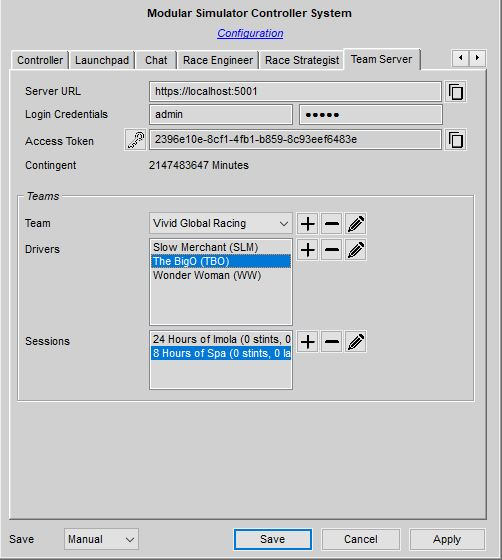
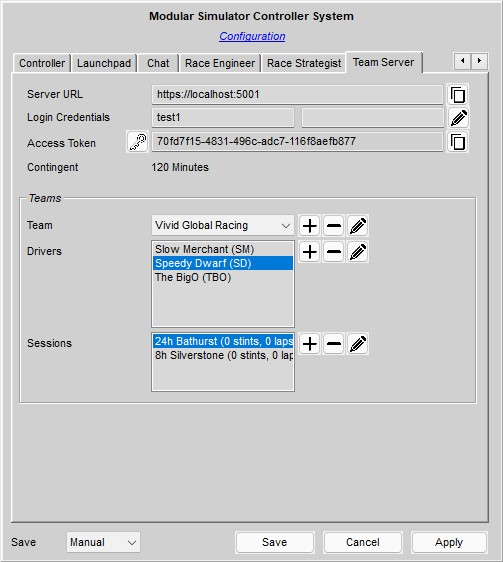
Dev Build 3.7.2-dev

Changed region(s): [[0.0, 0.0, 1.0, 1.0]]

diff --git a/Docs/Updates.md b/Docs/Updates.md
@@ -45,6 +45,12 @@ Although the code, that handles all the update tasks, is integrated into *Simula
 
 Note: Some of you might want to have more control. No problem. All the files in the *Simulator Controller\Config*, *Simulator Controller\Translations*, *Simulator Controller\Grammars* and *Simulator Controller\Rules* folders are human readable and using a text editor and some *Diff* tool, you can do everything the automated procedure does on your own. But be sure to make a backup copy of all the files, just for peace of mind. Attention: These files use a two-byte character set, so be sure to use an editor that can handle this.
 
+## Release 3.7.2
+
+The storage format of the Setup Database has been modified for this release. The migration is handled automatically by the update procedure (be patient, might take a few moments), but you should make a backup copy, before running the update, in order to be on the safe side. The "Team Server" has changed dramatically. You have to use the new version of the "Team Server" for this release and also older versions of Simulator Controller will not be compatible with the current release of "Team Server".
+
+***
+
 ## Release 3.7.0
 
 This release introduces the new *Team Server*. For this, a new [plugin "Team Server"](https://github.com/SeriousOldMan/Simulator-Controller/wiki/Plugins-&-Modes#plugin-team-server) has been added to the plugin configuration. For existing installations, this new plugin is disabled. You might want to enable and configure it, if you want to use the new *Team Server*. For more information on installation and configuration of the *Team Server*, please consult the corresponding [documentation](https://github.com/SeriousOldMan/Simulator-Controller/wiki/Team-Server).

diff --git a/README.md b/README.md
@@ -42,7 +42,9 @@ Please read the [Release Notes](https://github.com/SeriousOldMan/Simulator-Contr
 
 #### Latest development build
 
-None for the moment...
+[3.7.2-dev](https://www.dropbox.com/s/dvn40d2q7pgecg1/Simulator%20Controller%203.7.2-dev.zip?dl=1) (Early build for 3.7.2. New features: New "Team Server" for endurance races, New "Team Server" tab in "Simulator Configuration", New "Team" tab in "Race Settings", Bugfix in "Simulator Setup" for Stream Deck configuration support, Fixed label handling in "Simlator Setup", Fixed several other Bugs in "Simulator Setup", Fixed a bug when using mixed scenarios in "Strategy Workbench", Rework of the voice configuration both for locally installed as well as for Azure voices. Stable, with update procedure and documentation.)
+
+Please read the [Release Notes](https://github.com/SeriousOldMan/Simulator-Controller/wiki/Release-Notes) and - even more important - the release specific [Update Notes](https://github.com/SeriousOldMan/Simulator-Controller/wiki/Update-Notes#release-372) of this version and all the versions you might have skipped, before installing and using this version.
 
 ### Discord Community
 

diff --git a/Docs/Releases.md b/Docs/Releases.md
@@ -7,6 +7,7 @@
   5. Vastly reduced memory consumption of assistants in endurance races
   6. Fixed pitstop handling for ACC 1.8
   7. Fixed a bug in "Tactile Feedback" plugin which effect actions where not associated correctly with hardware dials.
+  8. Administration backend for "Team Server". Frontend will follow with the next release.
 
 ## 3.7.1-release 11/26/21
 
